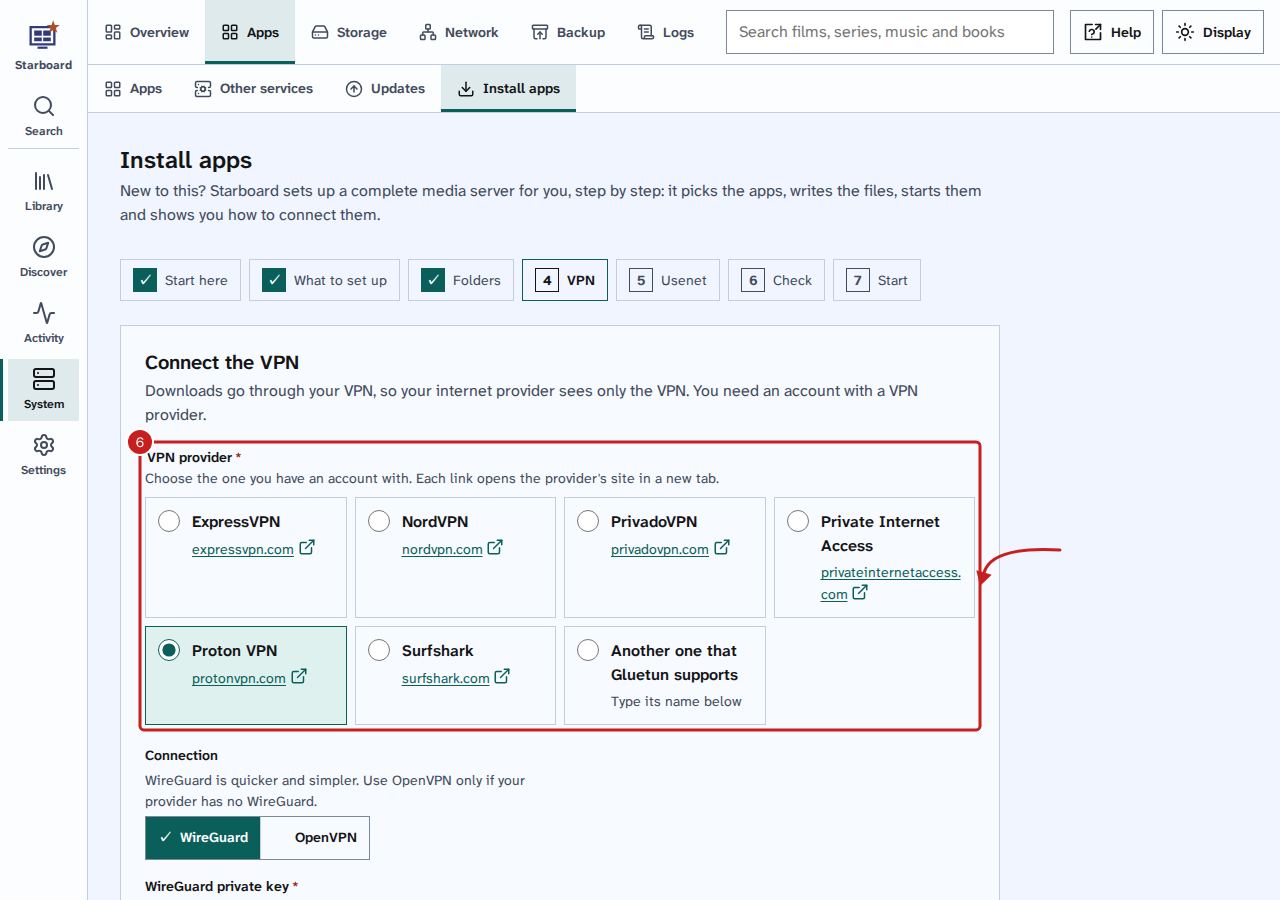
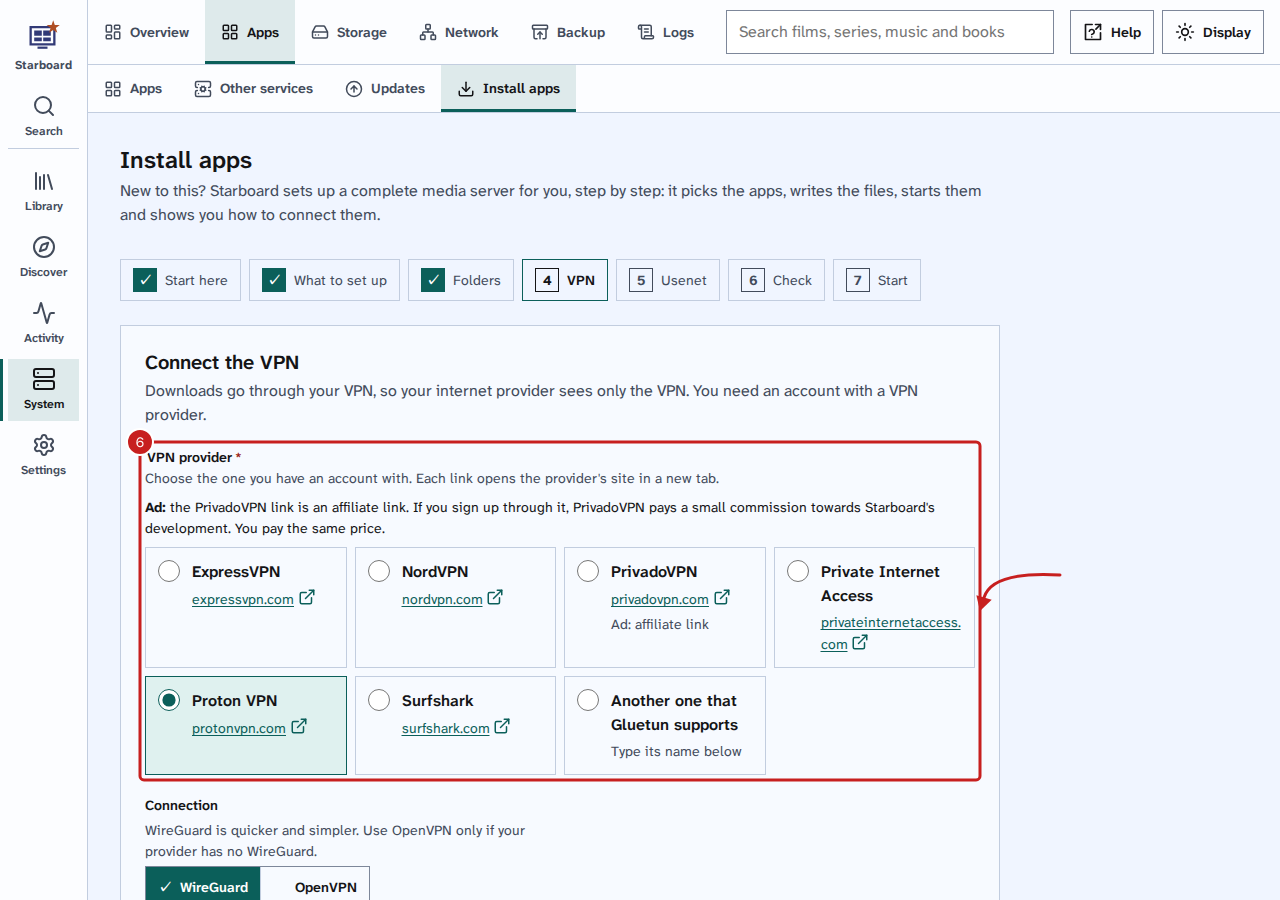
PrivadoVPN's affiliate link in both set-ups; help adverts take turns
The VPN step's PrivadoVPN link goes to its sign-up page with the affiliate code.
Providers marked affiliate in web/vpn-providers.json get an Ad note before the
list and an Ad mark on their card (browser) or line (terminal), with the same
words in both set-ups. The help centre's advert now takes turns between
Newshosting and PrivadoVPN (help-centre.json banners). Help article and
picture updated; tests for the note and for both set-ups matching.

Changed region(s): [[0.0938, 0.56, 0.8125, 1.0]]

diff --git a/web/js/install.js b/web/js/install.js
@@ -7,6 +7,10 @@
 // VPN providers, the same file the terminal set-up reads (web/vpn-providers.json): Gluetun's name, the provider's
 // own spelling and its site.
 let vpnProviders = null;
+// The note for providers whose link is an affiliate link (the same words as vpn_ad in starboard/terminal_setup.py).
+function vpnAd(names) {
+  return `the ${names.join(" and ")} link is an affiliate link. If you sign up through it, ${names.join(" or ")} pays a small commission towards Starboard's development. You pay the same price.`;
+}
 async function loadVpnProviders() {
   if (!vpnProviders) {
     try { vpnProviders = (await (await fetch("/vpn-providers.json", { cache: "no-cache" })).json()).providers; } catch { vpnProviders = []; }
@@ -346,14 +350,21 @@ async function installStep(id, state, data, apps, go) {
     const other = el("input", { class: "input", autocomplete: "off", spellcheck: "false", value: known ? "" : (state.vpn.provider || ""), id: "vpn-other" });
     const otherBox = el("div", { class: "form-stack" }, field("Its name, as Gluetun's list writes it", other, { required: true },
       { hint: "Gluetun's list of providers is on its wiki, under Providers. Type the name in small letters, such as mullvad." }));
-    const card = (id, name, site) => el("label", { class: "option-card" },
-      el("input", { type: "radio", name: pickName, value: id, checked: id === "other" ? (!known && !!state.vpn.provider) : state.vpn.provider === id }),
-      el("strong", { text: name }),
-      site ? el("small", {}, newTabLink(site, new URL(site).host.replace(/^www\./, ""), { about: `${name}'s site` }))
-        : el("small", { text: "Type its name below" }));
+    // An affiliate link (affiliate: true) is marked as paid and says so: "Ad" on the card, and the note under the hint.
+    const card = (id, name, site, affiliate) => {
+      const link = site ? newTabLink(site, new URL(site).host.replace(/^www\./, ""), { about: `${name}'s site${affiliate ? ", affiliate link" : ""}` }) : null;
+      if (link && affiliate) link.rel = "noopener noreferrer sponsored";
+      return el("label", { class: "option-card" },
+        el("input", { type: "radio", name: pickName, value: id, checked: id === "other" ? (!known && !!state.vpn.provider) : state.vpn.provider === id }),
+        el("strong", { text: name }),
+        link ? el("small", {}, link) : el("small", { text: "Type its name below" }),
+        affiliate ? el("small", { class: "muted", "aria-hidden": "true", text: "Ad: affiliate link" }) : null);
+    };
+    const paid = providers.filter((v) => v.affiliate).map((v) => v.name);
     const provider = el("fieldset", { "aria-required": "true" }, el("legend", { class: "field__label" }, "VPN provider", requiredMark()),
       el("p", { class: "hint", text: "Choose the one you have an account with. Each link opens the provider's site in a new tab." }),
-      el("div", { class: "option-cards option-cards--row" }, providers.map((v) => card(v.id, v.name, v.site)),
+      paid.length ? el("p", { class: "small" }, el("strong", { text: "Ad: " }), vpnAd(paid)) : null,
+      el("div", { class: "option-cards option-cards--row" }, providers.map((v) => card(v.id, v.name, v.site, v.affiliate)),
         card("other", "Another one that Gluetun supports", "")));
     const picked = () => $(`input[name="${pickName}"]:checked`, provider)?.value || "";
     const showOther = () => { otherBox.hidden = picked() !== "other"; };

diff --git a/starboard/terminal_setup.py b/starboard/terminal_setup.py
@@ -63,10 +63,20 @@ def _vpn_table():
     browser set-up reads too."""
     path = os.path.join(os.path.dirname(os.path.dirname(os.path.abspath(__file__))), "web", "vpn-providers.json")
     with open(path, encoding="utf-8") as f:
-        return [(v["id"], v["name"], v["site"]) for v in json.load(f)["providers"]]
+        rows = json.load(f)["providers"]
+    return [(v["id"], v["name"], v["site"]) for v in rows], {v["id"] for v in rows if v.get("affiliate")}
 
 
-VPNS = _vpn_table()
+VPNS, VPN_AFFILIATE = _vpn_table()
+
+
+def vpn_ad():
+    """The note for providers whose link is an affiliate link (the same words as vpnAd in web/js/install.js)."""
+    names = [n for i, n, _ in VPNS if i in VPN_AFFILIATE]
+    if not names:
+        return ""
+    return (f"Ad: the {' and '.join(names)} link is an affiliate link. If you sign up through it, {' or '.join(names)} "
+            "pays a small commission towards Starboard's development. You pay the same price.")
 
 
 def _vpn_default(last):
@@ -1948,8 +1958,11 @@ def step_vpn(api, term, state):
     last = state.get("vpn_answers", {})
     head(term, state, "vpn")
     # The same list as the browser set-up, each with its site; nothing is chosen for you the first time.
+    if vpn_ad():
+        term.note(vpn_ad())
     pick = term.choose("Which VPN provider do you have?",
-                       [(n, site.split("//")[1].rstrip("/").removeprefix("www.")) for _, n, site in VPNS]
+                       [(n, site.split("//")[1].rstrip("/").removeprefix("www.") + (" (Ad)" if i in VPN_AFFILIATE else ""))
+                        for i, n, site in VPNS]
                        + ["Another one that Gluetun supports"], _vpn_default(last), help_key="vpn")
     if pick < len(VPNS):
         provider = VPNS[pick][0]

diff --git a/tests/test_terminal_setup.py b/tests/test_terminal_setup.py
@@ -149,6 +149,19 @@ class TerminalSetupTest(unittest.TestCase):
             env = f.read()
         self.assertIn("VPN_SERVICE_PROVIDER=protonvpn", env)
         self.assertIn("secret-wireguard-key", env)
+        # PrivadoVPN's link is an affiliate link: the Ad note comes before the list, and its line says Ad.
+        flat = " ".join(text.split())
+        self.assertLess(flat.index("Ad: the PrivadoVPN link is an affiliate link"), flat.index("Which VPN provider do you have?"))
+        self.assertIn("privadovpn.com/getprivadovpn/#a_aid=themightytrexuk (Ad)", flat)
+
+    def test_vpn_affiliate_note_matches_the_browser(self):
+        """The browser set-up says the same about an affiliate VPN link (vpnAd in web/js/install.js)."""
+        js = open(os.path.join(os.path.dirname(__file__), "..", "web", "js", "install.js"), encoding="utf-8").read()
+        self.assertEqual(terminal_setup.VPN_AFFILIATE, {"privado"})
+        for words in ("link is an affiliate link. If you sign up through it,",
+                      "pays a small commission towards Starboard's development. You pay the same price."):
+            self.assertIn(words, terminal_setup.vpn_ad())
+            self.assertIn(words, js)
 
     def test_bad_hours_ask_again(self):
         term, out = self.term(["", "", "", "", "2", "", "5", "5", "22", "6", "", "", ""], [SIGN_IN_WORDS, SIGN_IN_WORDS])

diff --git a/CHANGELOG.md b/CHANGELOG.md
@@ -7,6 +7,10 @@ add features.
 
 ## [Unreleased]
 
+### Changed
+- **PrivadoVPN's link:** In both set-ups, the VPN step's PrivadoVPN link now goes to PrivadoVPN's sign-up page. It is an affiliate link, so the step says so in an Ad note before the list, and PrivadoVPN's line is marked Ad.
+- **Adverts in the help centre take turns:** The help centre's advert now shows Newshosting on one page and PrivadoVPN on the next, in turn. Nothing changes while a page is open, and Hide hides both.
+
 ### Fixed
 - **Live TV channels that would not play:** Jellyfin's FFmpeg refuses Live TV pieces whose address has no file ending, such as the ad links on Samsung TV Plus channels like U&Laughs, so 107 channels stopped playing. Install apps now runs Jellyfin's FFmpeg through a small Starboard file, `jellyfin/ffmpeg-wrap/ffmpeg` in your settings folder, which allows those addresses for Live TV only. Your library files and On demand links are played as before. Starting the apps, from Starboard, from the installer or by taking over your apps, puts the file in place, so running the guide again keeps the fix (DASH-169).
 - **Error IN-34:** If the installer cannot put that file in Jellyfin's settings folder, it stops with error IN-34 rather than start a Jellyfin that cannot find FFmpeg.

diff --git a/docs/help/topics/install-apps.md b/docs/help/topics/install-apps.md
@@ -39,7 +39,9 @@ and starts them. At the end, the apps are running and Starboard shows how to con
    folder, Starboard offers it. Select **Continue**.
 6. If your install has a VPN, the **VPN** step asks which **VPN provider** you have an account with. Choose it
    from the list: each name has a link to the provider's site, which opens in a new tab. If yours is not listed,
-   choose **Another one that Gluetun supports** and type its name as Gluetun's list writes it. Then choose
+   choose **Another one that Gluetun supports** and type its name as Gluetun's list writes it. The PrivadoVPN link is
+   an affiliate link, marked **Ad**: if you sign up through it, PrivadoVPN pays a small commission towards Starboard's
+   development, and you pay the same price. Then choose
    **WireGuard** (quicker and simpler) or **OpenVPN**, and type the details from the provider's site. Fields marked
    with a star (*) are required. Select **Continue**.
 
